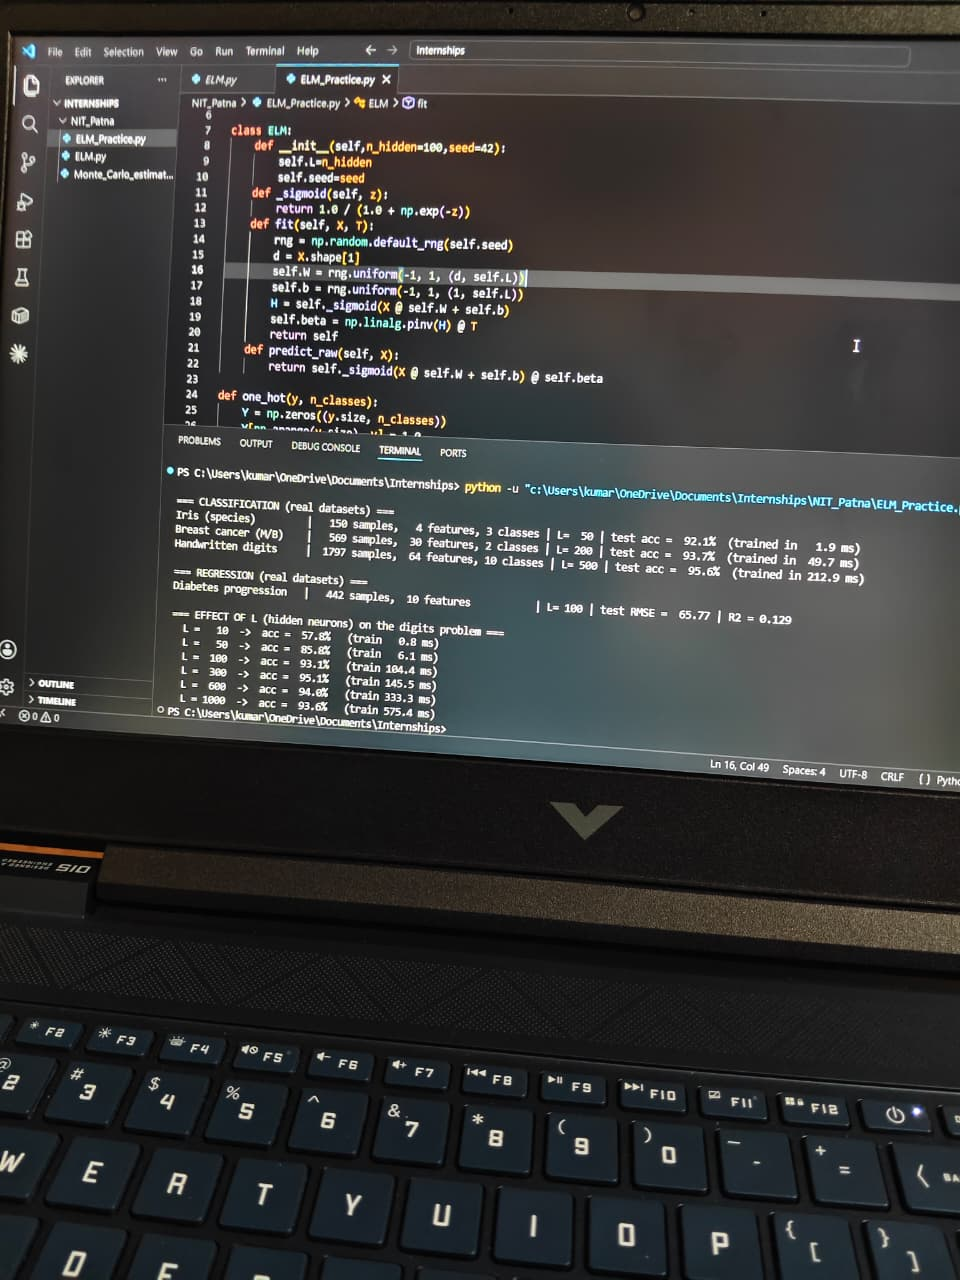
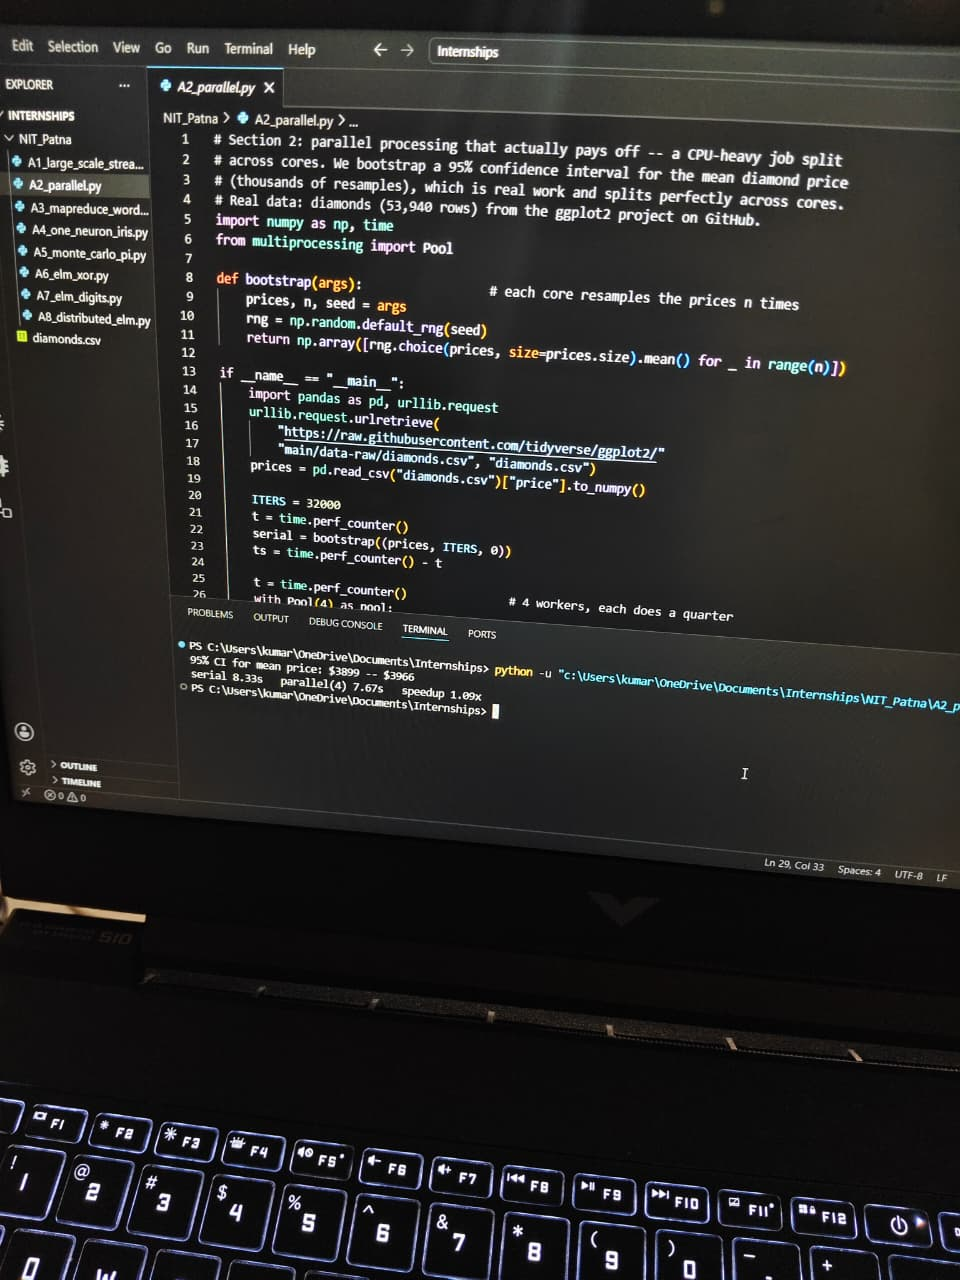
Updated resume

diff --git a/index.html b/index.html
@@ -252,6 +252,7 @@
       <li><span class="dot"></span><span>Submitted a 21-page structured review report on <strong style="color:var(--ink)">"Large-Scale Data Processing with Parallel and Distributed Randomized Extreme Learning Machine Neural Networks"</strong>, under <strong style="color:var(--ink)">Dr. Ayaz Ahmad</strong> (Dept. of Mathematics and Computing Technology, NIT Patna).</span></li>
       <li><span class="dot"></span><span>Implemented ELM in Python/NumPy — trained a network in a single matrix step (Moore–Penrose pseudoinverse) instead of backpropagation, and verified it on XOR and sklearn datasets.</span></li>
       <li><span class="dot"></span><span>Showed how ELM training splits across machines using MapReduce: in a worked example, a 400&nbsp;GB matrix problem became ~4&nbsp;GB per machine on a 100-machine cluster.</span></li>
+      <li><span class="dot"></span><span>Backed each concept with a runnable Python program on real data: streamed a 54K-row dataset at constant memory, measured a 2.57× speedup on 4 cores with a parallel bootstrap, and ran word-count MapReduce on a real text corpus.</span></li>
     </ul>
     <div class="nitp-slideshow" id="nitpSlideshow" aria-label="Internship photos">
       <img class="nitp-slide" src="Files/nit-patna/1.jpeg" alt="NIT Patna internship photo 1" loading="lazy">
@@ -302,7 +303,7 @@
         </div>
         <a href="https://www.afflatusgravure.com/" target="_blank" style="color:var(--accent);font-weight:700;font-size:15px;display:inline-block;margin-top:4px">Afflatus Gravures Pvt. Ltd.&nbsp;↗</a>
       </div>
-      <p class="exp-desc" style="grid-column:2;margin-top:0;font-size:15px;line-height:1.62;color:var(--muted)">Working in the <strong style="color:var(--ink)">Robotics Section</strong> on <strong style="color:var(--ink)">Machine Learning &amp; Data Analysis</strong>.</p>
+      <p class="exp-desc" style="grid-column:2;margin-top:0;font-size:15px;line-height:1.62;color:var(--muted)">Working in the <strong style="color:var(--ink)">Robotics Section</strong> on <strong style="color:var(--ink)">Automated Defect Detection in Rotogravure Cylinders using Computer Vision</strong>.</p>
     </div>
   </div>
 </section>
